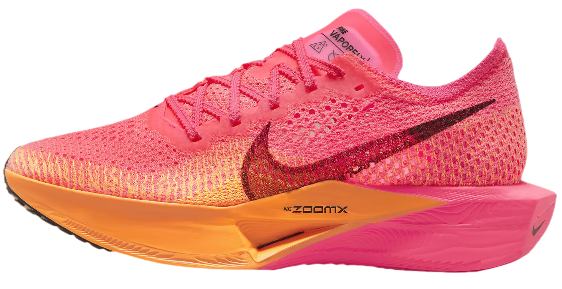
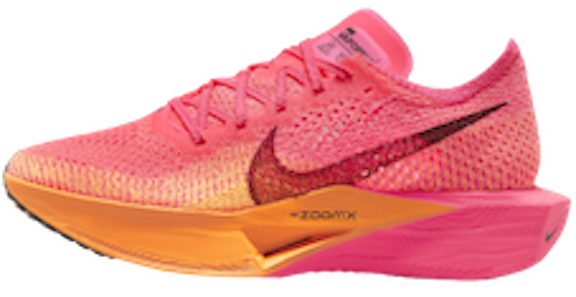
shoe animation done

diff --git a/shoelandingpage/style.css b/shoelandingpage/style.css
@@ -19,22 +19,139 @@ body {
 }
 
 .left {
+  position: relative;
   width: 35%;
   height: 100%;
   background-color: #df7333;
   color: #fff;
 }
 
+.left .txt {
+  position: absolute;
+  width: 90%;
+  left: 10%;
+  top: 20%;
+}
+
+.left .txt h1 {
+  font-size: 50px;
+  line-height: 1;
+}
+
+.left .txt h1 span {
+  font-weight: 300;
+}
+
+.left .txt h2 {
+  font-size: 20px;
+  font-weight: 300;
+  margin-top: 10px;
+  margin-bottom: 20px;
+}
+
+.left .txt p {
+  font-size: 12px;
+  width: 80%;
+  line-height: 1.2;
+  margin-bottom: 20px;
+}
+
+.txt button {
+  padding: 8px 24px;
+  border: none;
+  border-radius: 5px;
+  background-color: #fff;
+  color: #df7333;
+  cursor: pointer;
+}
+
+.left .btm {
+  position: absolute;
+  bottom: 3%;
+  left: 0;
+  width: 90%;
+  background-color: #fff;
+  padding: 20px;
+  color: #000;
+}
+
+.btm h3 {
+  font-size: 20px;
+}
+
+.btm p {
+  font-size: 12px;
+  width: 80%;
+  margin-top: 5px;
+  opacity: 0.5;
+}
+
 .right {
   width: 65%;
   height: 100%;
   position: relative;
+  background-color: #f4f4f4;
 }
 
 .right > img {
   position: absolute;
+  width: 500px;
   top: 50%;
-  left: -10%;
+  left: -5%;
   object-fit: cover;
-  transform: translate(-50%, -50%) rotate(-25deg);
+  transform: translate(-25%, -50%) rotate(-20deg);
+}
+
+.right .center {
+  position: absolute;
+  top: 10%;
+  left: 40%;
+  width: 60%;
+}
+
+.center h1 {
+  font-size: 40px;
+  color: #df7333;
+  margin-bottom: 10px;
+}
+
+.center h1 span {
+  color: #000;
+  font-weight: 300;
+}
+
+.center h2 {
+  font-weight: 400;
+}
+
+.center p {
+  font-size: 14px;
+  width: 80%;
+  line-height: 1.2;
+  margin-bottom: 20px;
+}
+
+.center .btns {
+  display: flex;
+  gap: 20px;
+}
+
+.center .btns button {
+  padding: 12px 22px;
+}
+
+.center .btns button:nth-child(1) {
+  background-color: transparent !important;
+  border: 1px solid #df7333;
+  color: #119ec9;
+  font-weight: 500;
+  border-radius: 10px;
+}
+
+.center .btns button:nth-child(2) {
+  background-color: #df7333;
+  border: none;
+  color: #fff;
+  font-weight: 600;
+  border-radius: 100px;
 }

diff --git a/shoelandingpage/index.html b/shoelandingpage/index.html
@@ -9,11 +9,47 @@
   <body>
     <div class="container">
       <div class="left">
-        <div class="txt"></div>
+        <div class="txt">
+          <h1 class="a"><span>Nike</span> AirPerformax</h1>
+          <h2 class="a">XF Series</h2>
+          <p class="a">
+            Nike AirMax XF is the ultimate fusion of style and performance. This
+            iconic series combines the comfort and agility.
+          </p>
+          <button class="a" type="button">Check out Product</button>
+        </div>
+        <div class="btm a">
+          <h3>Lorem ipsum dolor sit amet.</h3>
+          <p>
+            Lorem ipsum dolor sit amet consectetur, adipisicing elit. Quidem
+            assumenda repellendus, vitae aperiam, commodi atque, vel magnam
+            laudantium nisi.
+          </p>
+        </div>
       </div>
       <div class="right">
+        <div class="center">
+          <h1 class="a"><span>Nike</span> AirPerformax</h1>
+          <h2 class="a">Exclusivly Built</h2>
+          <p class="a">
+            Lorem ipsum dolor sit amet consectetur adipisicing elit. Laudantium
+            deserunt ratione quam.
+          </p>
+          <div class="btns a">
+            <button type="button">Checkout 360 degree View</button>
+            <button type="button">Add To Cart</button>
+          </div>
+        </div>
+
         <img src="./asset/shoe.png" alt="" />
       </div>
     </div>
+    <script
+      src="https://cdnjs.cloudflare.com/ajax/libs/gsap/3.12.5/gsap.min.js"
+      integrity="sha512-7eHRwcbYkK4d9g/6tD/mhkf++eoTHwpNM9woBxtPUBWm67zeAfFC+HrdoE2GanKeocly/VxeLvIqwvCdk7qScg=="
+      crossorigin="anonymous"
+      referrerpolicy="no-referrer"
+    ></script>
+    <script src="app.js"></script>
   </body>
 </html>

diff --git a/shoelandingpage/app.js b/shoelandingpage/app.js
@@ -1,0 +1,39 @@
+let tl = gsap.timeline();
+
+gsap.set(".a", {
+  opacity: 0,
+  y: 10,
+});
+
+gsap.set(".right img", {
+  opacity: 0,
+  y: 10,
+  scale: 1.6,
+});
+
+tl.from(".left", {
+  width: 0,
+  duration: 1.5,
+  ease: Expo.easeInOut,
+})
+  .from(".right", {
+    width: 0,
+    duration: 1.5,
+    ease: Expo.easeInOut,
+  })
+  .to(".a", {
+    delay: -2,
+    stagger: 0.1,
+    opacity: 1,
+    y: 0,
+    ease: Expo.easeInOut,
+    duration: 2,
+  })
+  .to(".right img", {
+    delay: -1,
+    opacity: 1,
+    y: 0,
+    scale: 1,
+    ease: Expo.easeInOut,
+    duration: 1,
+  });
